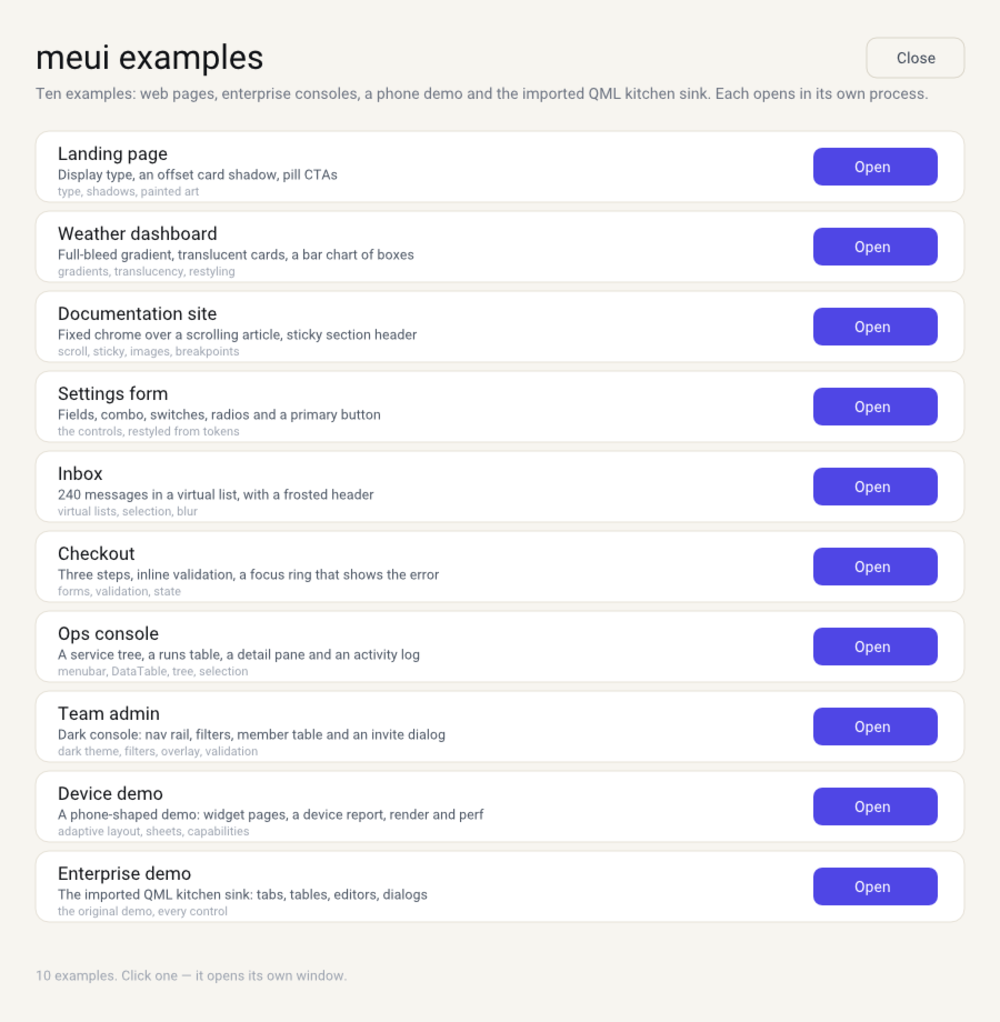
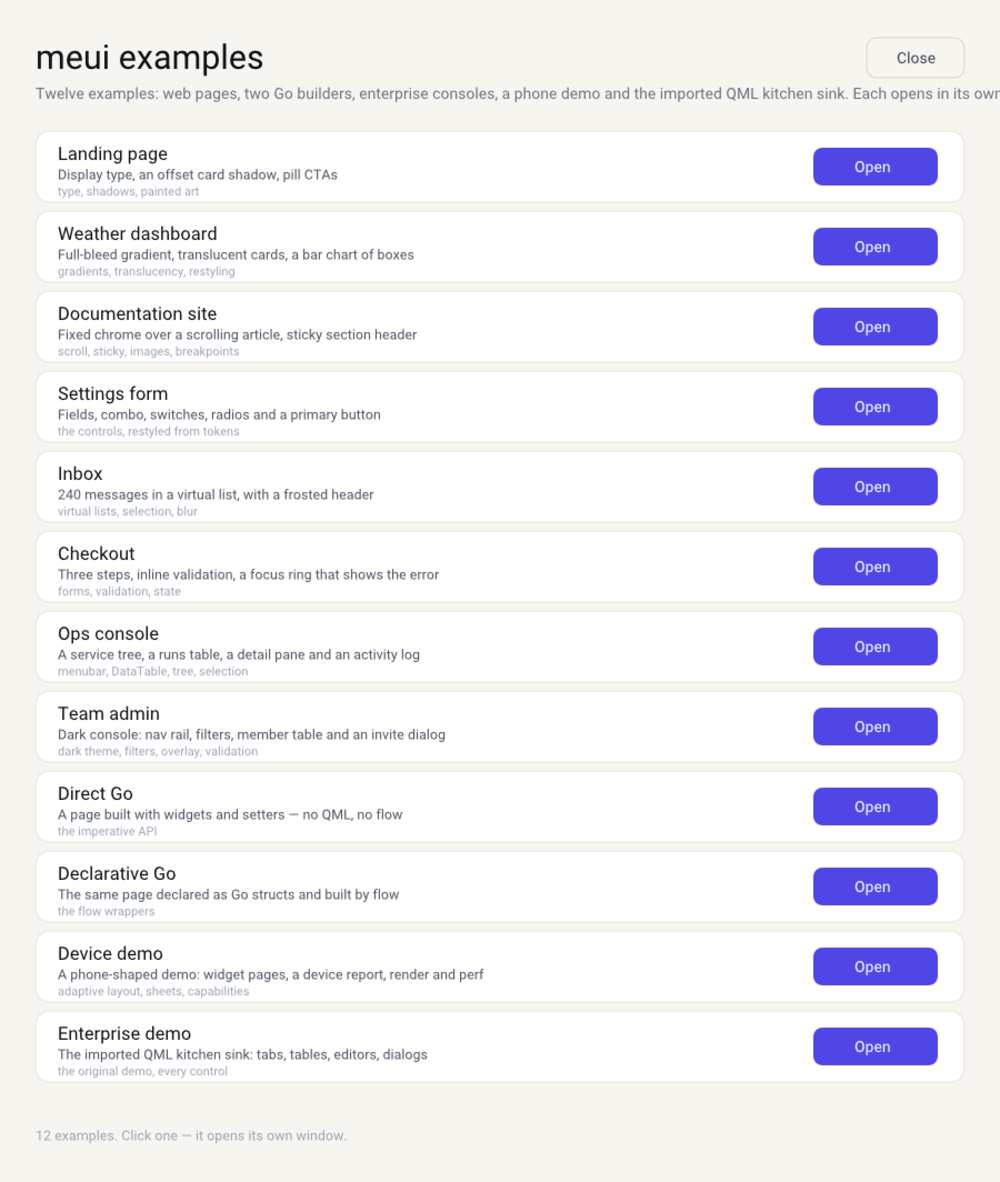
examples: the direct and flow builders, and a launcher that fits them
The README advertises three ways to build a window; now the two Go ones are
runnable. examples/direct uses the widget API and setters, examples/flow the same
page as structs through flow.Build. Both take -shot; the launcher grew to twelve
entries (with a taller window and a refreshed screenshot), and the examples guide
lists them.

Changed region(s): [[0.031, 0.0303, 1.0, 0.91], [0.806, 0.5157, 0.961, 0.91], [0.031, 0.9403, 0.341, 0.9706]]

diff --git a/examples/launcher/launcher.qml b/examples/launcher/launcher.qml
@@ -3,7 +3,7 @@
 Window {
   id: root
   width: 900
-  height: 920
+  height: 1064
   color: "#F7F5F0"
 
   Rectangle {
@@ -25,9 +25,9 @@ Window {
     Text {
       x: 32
       y: 74
-      width: 700
+      width: 830
       height: 20
-      text: "Ten examples: web pages, enterprise consoles, a phone demo and the imported QML kitchen sink. Each opens in its own process."
+      text: "Twelve examples: web pages, two Go builders, enterprise consoles, a phone demo and the imported QML kitchen sink. Each opens in its own process."
       font.pixelSize: 10
       font.weight: 400
       color: "#6B7280"
@@ -64,14 +64,14 @@ Window {
       x: 32
       y: 118
       width: 836
-      height: 730
+      height: 874
       color: "#00000000"
     }
 
     Text {
       id: status
       x: 32
-      y: 868
+      y: 1012
       width: 760
       height: 20
       text: ""

diff --git a/examples/flow/main.go b/examples/flow/main.go
@@ -1,0 +1,104 @@
+// Flow — the same window declared as Go structs and built by the flow package. No
+// .qml file: the tree is compile-checked, and behaviour sits next to the declaration.
+//
+//	go run ./examples/flow
+//	go run ./examples/flow -shot /tmp/flow.png
+package main
+
+import (
+	"flag"
+	"fmt"
+	"os"
+
+	"github.com/sixnineone/meui"
+	"github.com/sixnineone/meui-gl/sdl3"
+	"github.com/sixnineone/meui/flow"
+	"github.com/sixnineone/meui/graphics"
+	"github.com/sixnineone/meui/theme"
+	"github.com/sixnineone/meui/web"
+	"github.com/sixnineone/meui/widgets"
+)
+
+func main() {
+	shot := flag.String("shot", "", "render one frame to this PNG and exit (headless)")
+	preset := flag.String("preset", "web-light", "theme preset")
+	width := flag.Int("w", 900, "window width")
+	height := flag.Int("h", 600, "window height")
+	flag.Parse()
+
+	if err := theme.LoadPreset(*preset); err != nil {
+		fmt.Fprintf(os.Stderr, "flow: preset: %v\n", err)
+		os.Exit(1)
+	}
+
+	root := build(float32(*width), float32(*height))
+
+	if *shot != "" {
+		if err := web.Shot(root, *width, *height, *shot); err != nil {
+			fmt.Fprintf(os.Stderr, "flow: shot: %v\n", err)
+			os.Exit(1)
+		}
+		fmt.Printf("flow: wrote %s (%dx%d)\n", *shot, *width, *height)
+		return
+	}
+
+	app := meui.NewApp(sdl3.NewApp(), meui.AppOptions{Title: "meui · flow"})
+	if _, err := app.AddWindow(root, meui.WindowOptions{
+		Title: "meui · flow",
+		Size:  graphics.NewSize(float32(*width), float32(*height)),
+	}); err != nil {
+		fmt.Fprintf(os.Stderr, "flow: add window: %v\n", err)
+		os.Exit(1)
+	}
+	if err := app.Run(); err != nil {
+		fmt.Fprintf(os.Stderr, "flow: run: %v\n", err)
+		os.Exit(1)
+	}
+}
+
+// build is the whole page. Each field mirrors a QML property; Build() turns the
+// structs into the same widget tree the parser would have produced.
+func build(w, h float32) *meui.Window {
+	var title *widgets.Label
+
+	app := &flow.Window{
+		W:     flow.W{Width: w, Height: h},
+		Title: "meui · flow",
+		Children: []flow.WidgetWrapper{
+			// The Panel has no layout, so the VStack keeps the inset frame: the
+			// window's anchor layout sizes the Panel, not the content inside it.
+			&flow.Panel{
+				Children: []flow.WidgetWrapper{
+					&flow.VStack{
+						W: flow.W{X: 40, Y: 40, Width: w - 80, Height: h - 80},
+						Children: []flow.WidgetWrapper{
+							&flow.Label{
+								Text: "Declarative Go",
+								OnCreated: func(l *widgets.Label) {
+									title = l
+									l.SetFontSize(40)
+								},
+							},
+							&flow.Label{
+								Text: "The same page as Go structs, built by flow. The compiler checks it; there is no file to parse.",
+								OnCreated: func(l *widgets.Label) {
+									l.SetWrapMode("word")
+								},
+							},
+							&flow.Button{
+								W:    flow.W{Width: 140, Height: 36},
+								Text: "Say hello",
+								OnClick: func() {
+									title.SetText("Hello, Go.")
+								},
+							},
+						},
+					},
+				},
+			},
+		},
+	}
+
+	root, _ := flow.Build(app)
+	return root.(*meui.Window)
+}

diff --git a/examples/direct/main.go b/examples/direct/main.go
@@ -1,0 +1,95 @@
+// Direct — the same window built with widgets and setters: no .qml file, no flow
+// wrappers. This is the imperative API underneath the other two builders.
+//
+//	go run ./examples/direct
+//	go run ./examples/direct -shot /tmp/direct.png
+package main
+
+import (
+	"flag"
+	"fmt"
+	"os"
+
+	"github.com/sixnineone/meui"
+	"github.com/sixnineone/meui-gl/sdl3"
+	"github.com/sixnineone/meui/graphics"
+	"github.com/sixnineone/meui/layout"
+	"github.com/sixnineone/meui/theme"
+	"github.com/sixnineone/meui/web"
+	"github.com/sixnineone/meui/widgets"
+)
+
+func main() {
+	shot := flag.String("shot", "", "render one frame to this PNG and exit (headless)")
+	preset := flag.String("preset", "web-light", "theme preset")
+	width := flag.Int("w", 900, "window width")
+	height := flag.Int("h", 600, "window height")
+	flag.Parse()
+
+	if err := theme.LoadPreset(*preset); err != nil {
+		fmt.Fprintf(os.Stderr, "direct: preset: %v\n", err)
+		os.Exit(1)
+	}
+
+	root := build(float32(*width), float32(*height))
+
+	if *shot != "" {
+		if err := web.Shot(root, *width, *height, *shot); err != nil {
+			fmt.Fprintf(os.Stderr, "direct: shot: %v\n", err)
+			os.Exit(1)
+		}
+		fmt.Printf("direct: wrote %s (%dx%d)\n", *shot, *width, *height)
+		return
+	}
+
+	app := meui.NewApp(sdl3.NewApp(), meui.AppOptions{Title: "meui · direct"})
+	if _, err := app.AddWindow(root, meui.WindowOptions{
+		Title: "meui · direct",
+		Size:  graphics.NewSize(float32(*width), float32(*height)),
+	}); err != nil {
+		fmt.Fprintf(os.Stderr, "direct: add window: %v\n", err)
+		os.Exit(1)
+	}
+	if err := app.Run(); err != nil {
+		fmt.Fprintf(os.Stderr, "direct: run: %v\n", err)
+		os.Exit(1)
+	}
+}
+
+// build is the whole page. No parser is involved: each widget is a value, each
+// behaviour a closure, and the VStack owns the geometry.
+func build(w, h float32) *meui.Window {
+	win := meui.NewWindow()
+	win.SetFrameRect(graphics.NewRect(0, 0, w, h))
+
+	page := meui.NewPanel()
+	page.SetFrameRect(graphics.NewRect(0, 0, w, h))
+	page.SetBackground(graphics.RGB(0xF7, 0xF5, 0xF0))
+	win.AddChild(page)
+
+	// The VStack has no padding of its own: inset its frame instead.
+	content := meui.NewPanel()
+	content.SetFrameRect(graphics.NewRect(40, 40, w-80, h-80))
+	content.SetLayout(layout.NewVStack())
+	page.AddChild(content)
+
+	title := widgets.NewLabel()
+	title.SetText("Direct Go")
+	title.SetFontSize(40)
+	content.AddChild(title)
+
+	subtitle := widgets.NewLabel()
+	subtitle.SetText("A window built from widgets, setters and a VStack. The same primitives the QML builder produces.")
+	subtitle.SetWrapMode("word")
+	content.AddChild(subtitle)
+
+	cta := widgets.NewButton()
+	cta.SetText("Say hello")
+	cta.SetFrameRect(graphics.NewRect(40, 150, 140, 36))
+	cta.SetOnClicked(func() {
+		title.SetText("Hello, Go.")
+	})
+	content.AddChild(cta)
+
+	return win
+}

diff --git a/examples/launcher/main.go b/examples/launcher/main.go
@@ -43,6 +43,8 @@ var examples = []example{
 	{"checkout", "Checkout", "Three steps, inline validation, a focus ring that shows the error", "forms, validation, state"},
 	{"ops", "Ops console", "A service tree, a runs table, a detail pane and an activity log", "menubar, DataTable, tree, selection"},
 	{"admin", "Team admin", "Dark console: nav rail, filters, member table and an invite dialog", "dark theme, filters, overlay, validation"},
+	{"direct", "Direct Go", "A page built with widgets and setters — no QML, no flow", "the imperative API"},
+	{"flow", "Declarative Go", "The same page declared as Go structs and built by flow", "the flow wrappers"},
 	{"device", "Device demo", "A phone-shaped demo: widget pages, a device report, render and perf", "adaptive layout, sheets, capabilities"},
 	{"enterprise", "Enterprise demo", "The imported QML kitchen sink: tabs, tables, editors, dialogs", "the original demo, every control"},
 }
@@ -51,7 +53,7 @@ func main() {
 	shot := flag.String("shot", "", "render one frame to this PNG and exit (headless)")
 	preset := flag.String("preset", "web-light", "theme preset")
 	width := flag.Int("w", 900, "window width")
-	height := flag.Int("h", 920, "window height")
+	height := flag.Int("h", 1064, "window height")
 	path := flag.String("qml", "examples/launcher/launcher.qml", "scene file")
 	flag.Parse()
 

diff --git a/examples/README.md b/examples/README.md
@@ -1,11 +1,11 @@
 # MEUI examples
 
-Ten applications built with **MeUI** — the widget toolkit in this repository — plus the
-parity scene its renderer is checked against.
+Thirteen applications built with **MeUI** — the widget toolkit in this repository — plus
+the launcher and the parity scene its renderer is checked against.
 
 They exist to show the toolkit as an application platform rather than a widget list:
-six web-looking pages, two enterprise desktop consoles, a phone-shaped device demo, and
-the imported QML kitchen sink. Between them: rectangles that round, lift and clip,
+six web-looking pages, two enterprise desktop consoles, a phone-shaped device demo, the
+imported QML kitchen sink, and two small pages built with the Go builders. Between them: rectangles that round, lift and clip,
 scrolling and sticky headers, lists of a thousand rows, forms that validate, frosted
 glass, a menubar, a tree, a `DataTable` driving an inspector, a navigation rail, a dark
 theme and an invite dialog.
@@ -36,6 +36,8 @@ CGO_ENABLED=0 go run ./examples/ops         # enterprise ops console (light desk
 CGO_ENABLED=0 go run ./examples/admin       # enterprise team admin (dark desktop theme)
 CGO_ENABLED=0 go run ./examples/device      # phone-shaped device demo
 CGO_ENABLED=0 go run ./examples/enterprise  # the imported QML kitchen sink
+CGO_ENABLED=0 go run ./examples/direct      # the same page built with widgets and setters
+CGO_ENABLED=0 go run ./examples/flow        # the same page declared as Go structs
 ```
 
 `examples/mobile` is a raw mobile demo (it drives the GL window directly) and expects a
@@ -59,6 +61,8 @@ CGO_ENABLED=0 go run ./examples/ops       -shot /tmp/ops.png
 CGO_ENABLED=0 go run ./examples/admin     -shot /tmp/admin.png
 CGO_ENABLED=0 go run ./examples/admin     -invite -shot /tmp/admin-invite.png
 CGO_ENABLED=0 go run ./examples/device    -page 0 -shot /tmp/device.png
+CGO_ENABLED=0 go run ./examples/direct    -shot /tmp/direct.png
+CGO_ENABLED=0 go run ./examples/flow      -shot /tmp/flow.png
 ```
 
 Two pages have state worth capturing:
@@ -95,6 +99,8 @@ MEUI_CAPTURE_SHOT=/tmp/enterprise.png MEUI_CAPTURE_SECS=4 go run .
 | `ops` | an operations console (desktop `meui-light`) | a `MenuBar`, a service **tree** filtering a typed `DataTable`, an inspector filled from the selected row, an activity strip, a `StatusBar`; “New run” queues a row and completes it on a timer |
 | `admin` | a team admin console (desktop `windows11-dark`) | a `NavigationRail`, live search + role filter composing into one filter, a member `DataTable`, a detail pane with a `Switch`, and an **invite dialog** overlay with validation and a duplicate check |
 | `device` | a phone-shaped demo | adaptive pages (widgets, device report, render, perf), bottom and action sheets, an adaptive dialog, a search view, swipe rows and pull-to-refresh — the demo used on real devices |
+| `direct` | a small page built imperatively | `meui.NewWindow`, `meui.NewPanel`, `layout.NewVStack` and widget setters — no QML, no flow |
+| `flow` | the same page declared in Go | the `flow` wrappers (`Window`, `VStack`, `Label`, `Button`) and `flow.Build`; no file to parse |
 | `enterprise` | the imported QML kitchen sink | the original demo application: tabs of controls, tables, editors, dialogs, its own brand theme |
 | `parity` | no window | the GL-vs-offscreen fixture: surfaces only (cards, gradient, translucency, clip, rounded image, z pair, frosted glass) |
 
@@ -135,5 +141,4 @@ With `make` installed, `make parity-web` runs those three steps. `cmd/tools/imgd
   on Android before it moved here).
 
 `../WEB.md` is the design record for the web support: the vocabulary, the measured
-references, the renderer notes, and what is deliberately not there. `../../AGENTS.md` and
-`../../MIGRATION.md` cover the toolkit's contracts and history.
+references, the renderer notes, and what is deliberately not there.
